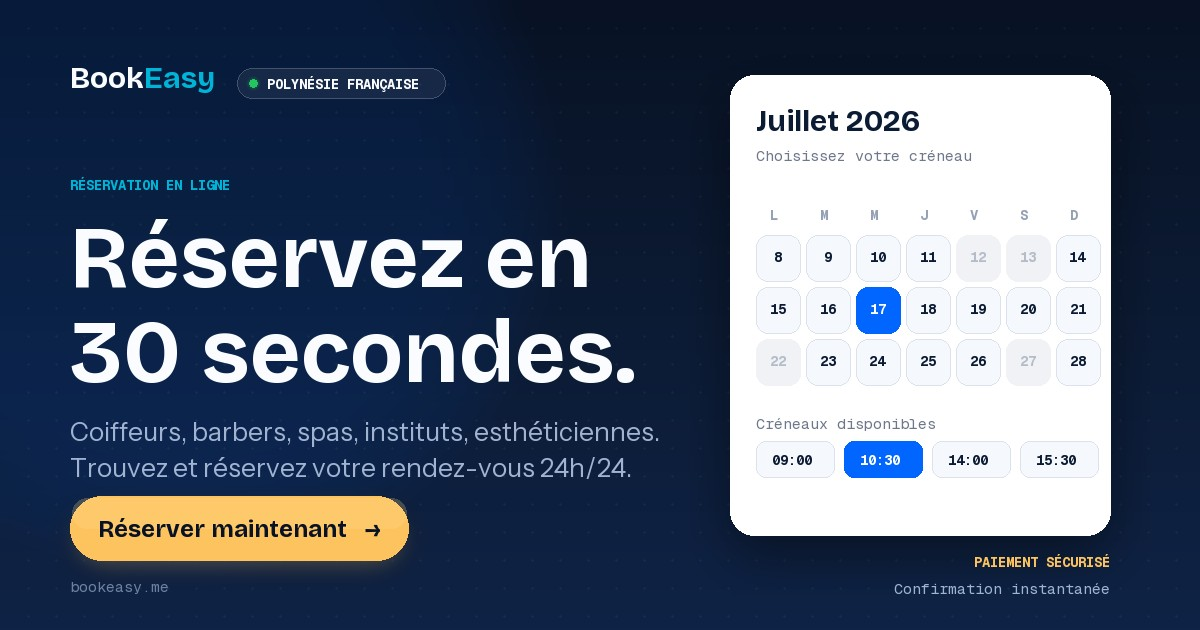
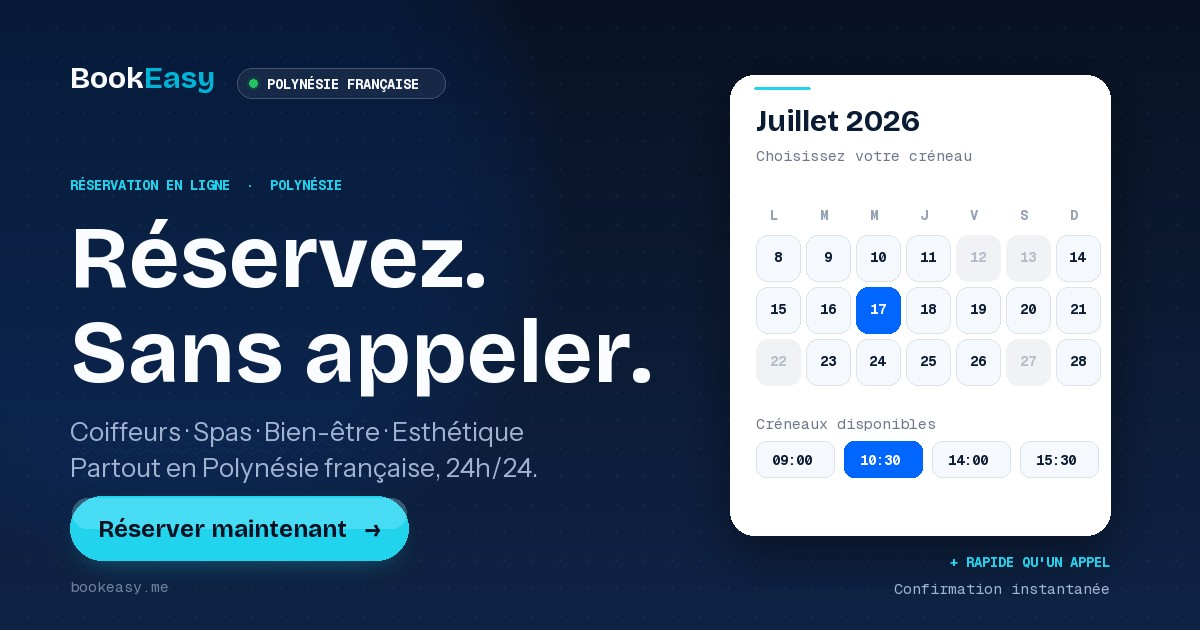
feat(og): V3 — lagoon turquoise + Polynesian pain-point headline
Visual changes (A + D + B):
- A: CTA pill from gold → lagoon turquoise (#22D3EE) with cyan glow shadow
- A: thin lagoon accent line on top of the calendar card (signature)
- A: trust badge color → lagoon (replaces gold)
- D: headline "Réservez. Sans appeler." — pain-point local + identity
- D: eyebrow extended to "RÉSERVATION EN LIGNE · POLYNÉSIE" (in lagoon)
- D: subtitle reframed as " · "-separated sectors + "24h/24" benefit
- D: trust badge copy → "+ RAPIDE QU'UN APPEL" (local insight)
- B: subtle Maohi chevron motif (5% opacity) in negative space between
  subtitle and CTA — territorial signature without folk cliché

diff --git a/scripts/generate-og.py b/scripts/generate-og.py
@@ -23,8 +23,12 @@ TYPE_DIM      = (160, 180, 210)
 TYPE_MUTED    = (110, 130, 160)
 CYAN_BRAND    = (0, 180, 216)       # #00B4D8 — brand secondary
 BLUE_BRAND    = (0, 102, 255)       # #0066FF — brand primary
-GOLD          = (252, 195, 95)      # warm CTA
+GOLD          = (252, 195, 95)      # warm CTA (legacy v2)
 GOLD_DEEP     = (220, 162, 60)
+# Direction A — Lagon turquoise (replaces gold for CTA v3)
+LAGOON        = (34, 211, 238)      # #22D3EE — Polynesian lagoon
+LAGOON_DEEP   = (14, 165, 200)      # darker lagoon for shadow
+LAGOON_GLOW   = (103, 232, 249)     # #67E8F9 — light splash
 CARD_BG       = (255, 255, 255)
 CARD_SHADOW   = (0, 0, 0)
 
@@ -64,6 +68,34 @@ GRID = 28
 for x in range(GRID, W, GRID):
     for y in range(GRID, H, GRID):
         draw.ellipse([x-1, y-1, x+1, y+1], fill=(255, 255, 255, 10))
+
+# Direction B — Subtle Polynesian wave motif, placed in the lower-left
+# negative space between subtitle and CTA. Inspired by Maohi tatau chevrons.
+# Opacity 5% — reads as texture, not decoration. Stays out of the calendar card.
+wave_layer = Image.new("RGBA", (W, H), (0, 0, 0, 0))
+wdraw = ImageDraw.Draw(wave_layer)
+_WAVE_LEFT = 70  # mirrors LEFT_PAD defined later in the file
+WAVE_BASE_X = _WAVE_LEFT
+# Position: below the subtitle, above the CTA pill (vertical breathing room)
+WAVE_BASE_Y = H - 200
+CHEVRON_W = 14
+CHEVRON_H = 6
+for row in range(3):
+    y_offset = WAVE_BASE_Y + row * (CHEVRON_H + 3)
+    x_offset = WAVE_BASE_X + (row % 2) * (CHEVRON_W // 2)
+    for col in range(20):
+        cx = x_offset + col * CHEVRON_W
+        if cx + CHEVRON_W > _WAVE_LEFT + 280:
+            break
+        wdraw.line(
+            [(cx, y_offset + CHEVRON_H), (cx + CHEVRON_W // 2, y_offset),
+             (cx + CHEVRON_W, y_offset + CHEVRON_H)],
+            fill=(103, 232, 249, 18),
+            width=1,
+        )
+wave_layer = wave_layer.filter(ImageFilter.GaussianBlur(0.3))
+img.paste(wave_layer, (0, 0), wave_layer)
+draw = ImageDraw.Draw(img, "RGBA")
 
 # ─────────────────────────────────────────────────────────
 # TYPOGRAPHY
@@ -115,23 +147,23 @@ draw.text((tag_x1 + 30, tag_y1 + 6), tag_text, font=font_chip, fill=TYPE_WHITE)
 # ─────────────────────────────────────────────────────────
 # HEADLINE block (left side)
 # ─────────────────────────────────────────────────────────
-# Eyebrow text
-eyebrow = "RÉSERVATION EN LIGNE"
-draw.text((LEFT_PAD, 175), eyebrow, font=font_chip, fill=CYAN_BRAND)
+# Eyebrow text — territorial signature
+eyebrow = "RÉSERVATION EN LIGNE  ·  POLYNÉSIE"
+draw.text((LEFT_PAD, 175), eyebrow, font=font_chip, fill=LAGOON)
 
-# H1 (2 lines)
-line1 = "Réservez en"
-line2 = "30 secondes."
+# H1 (2 lines) — D direction: pain point local + identity
+line1 = "Réservez."
+line2 = "Sans appeler."
 h_y = 205
 draw.text((LEFT_PAD, h_y), line1, font=font_h1, fill=TYPE_WHITE)
-# Second line with gradient-like dual color
+# Second line — slight lagoon tint on the period to anchor the punctuation
 line2_y = h_y + 95
 draw.text((LEFT_PAD, line2_y), line2, font=font_h2, fill=TYPE_WHITE)
 
-# Subtitle (4-line value prop)
+# Subtitle — rhythm + 24h/24 benefit at the end
 sub_y = line2_y + 115
-sub_text = "Coiffeurs, barbers, spas, instituts, esthéticiennes."
-sub2_text = "Trouvez et réservez votre rendez-vous 24h/24."
+sub_text = "Coiffeurs · Spas · Bien-être · Esthétique"
+sub2_text = "Partout en Polynésie française, 24h/24."
 draw.text((LEFT_PAD, sub_y), sub_text, font=font_sub, fill=TYPE_DIM)
 draw.text((LEFT_PAD, sub_y + 36), sub2_text, font=font_sub, fill=TYPE_DIM)
 
@@ -151,24 +183,24 @@ pill_h = 64
 pill_x = LEFT_PAD
 pill_y = H - pill_h - 70
 
-# Gold gradient pill — fake gradient with 2 stacked rects
-# Outer shadow (soft drop)
+# Lagoon gradient pill — Direction A
+# Outer cyan glow (drop shadow with lagoon color)
 shadow = Image.new("RGBA", (pill_w + 40, pill_h + 40), (0, 0, 0, 0))
 sdraw = ImageDraw.Draw(shadow)
 sdraw.rounded_rectangle([20, 20, pill_w + 20, pill_h + 20], radius=pill_h // 2,
-                        fill=(252, 195, 95, 80))
-shadow = shadow.filter(ImageFilter.GaussianBlur(14))
+                        fill=(34, 211, 238, 90))
+shadow = shadow.filter(ImageFilter.GaussianBlur(16))
 img.paste(shadow, (pill_x - 20, pill_y - 10), shadow)
 draw = ImageDraw.Draw(img, "RGBA")
 
-# Pill body — solid gold with subtle bottom shade
+# Pill body — solid lagoon with subtle top highlight
 draw.rounded_rectangle([pill_x, pill_y, pill_x + pill_w, pill_y + pill_h],
-                       radius=pill_h // 2, fill=GOLD)
-# Tiny inner highlight on top
+                       radius=pill_h // 2, fill=LAGOON)
+# Top highlight band for dimensionality
 draw.rounded_rectangle([pill_x + 2, pill_y + 2, pill_x + pill_w - 2, pill_y + pill_h // 2],
-                       radius=pill_h // 2, fill=(255, 220, 140, 60))
+                       radius=pill_h // 2, fill=(167, 243, 255, 70))
 
-# Center text vertically — compensate font baseline
+# Center text vertically — compensate font baseline. Use deep navy for max contrast.
 text_y = pill_y + (pill_h - chh) // 2 - cbbox[1]
 draw.text((pill_x + pill_pad_x, text_y), cta_text,
           font=font_cta, fill=INK_BG_TOP)
@@ -199,6 +231,9 @@ draw = ImageDraw.Draw(img, "RGBA")
 # Card body
 draw.rounded_rectangle([card_x, card_y, card_x + card_w, card_y + card_h],
                        radius=24, fill=CARD_BG)
+# Direction A — fine lagoon accent line at the top of the card (signature)
+draw.rounded_rectangle([card_x + 24, card_y + 12, card_x + 80, card_y + 14],
+                       radius=2, fill=LAGOON)
 
 # Card header — month label
 mh_y = card_y + 28
@@ -287,16 +322,16 @@ for i, t in enumerate(["09:00", "10:30", "14:00", "15:30"]):
 # ─────────────────────────────────────────────────────────
 # BOTTOM RIGHT : Trust badge — clean text-only
 # ─────────────────────────────────────────────────────────
-trust_text_top = "PAIEMENT SÉCURISÉ"
+# Trust badge — local insight ("faster than a phone call")
+trust_text_top = "+ RAPIDE QU'UN APPEL"
 trust_text_bot = "Confirmation instantanée"
-# Right-aligned to the card right edge
 trust_right = card_x + card_w
 ttbox = draw.textbbox((0, 0), trust_text_top, font=font_chip)
 tt_w = ttbox[2] - ttbox[0]
 tbbox = draw.textbbox((0, 0), trust_text_bot, font=font_mono)
 tb_w = tbbox[2] - tbbox[0]
 draw.text((trust_right - tt_w, H - 78), trust_text_top,
-          font=font_chip, fill=GOLD)
+          font=font_chip, fill=LAGOON)
 draw.text((trust_right - tb_w, H - 52), trust_text_bot,
           font=font_mono, fill=TYPE_DIM)
 